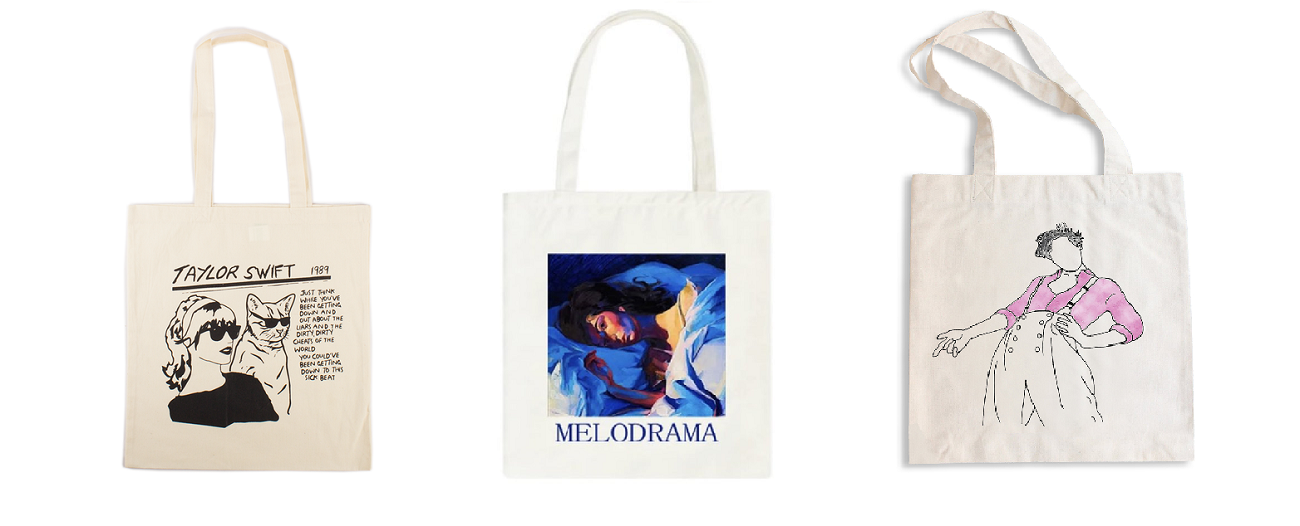
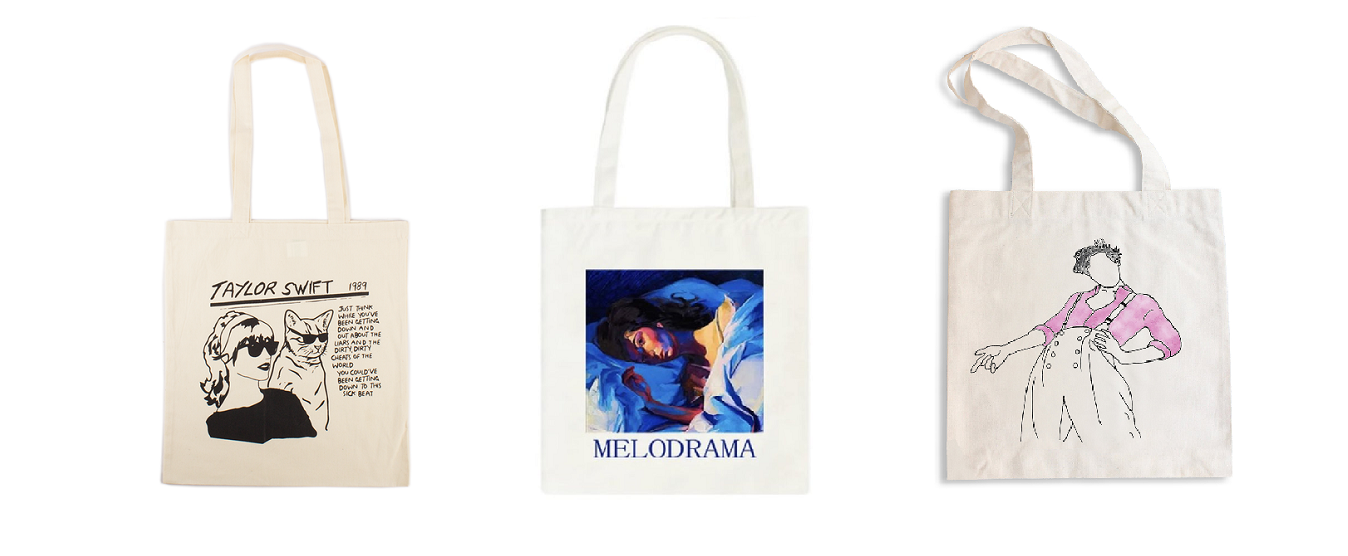
Agregando imagen al header

diff --git a/index.html b/index.html
@@ -40,7 +40,12 @@
             </form>
           </div>
         </div>
-      </nav>
+    </nav>
+
+    <header>
+        <img src="./img/tote.png" alt="modelos de tote bags">
+    </header>
+
 </body>
 </html>
 

diff --git a/scss/main.scss b/scss/main.scss
@@ -18,3 +18,5 @@ body{
         color: black;
     }
 }
+
+
